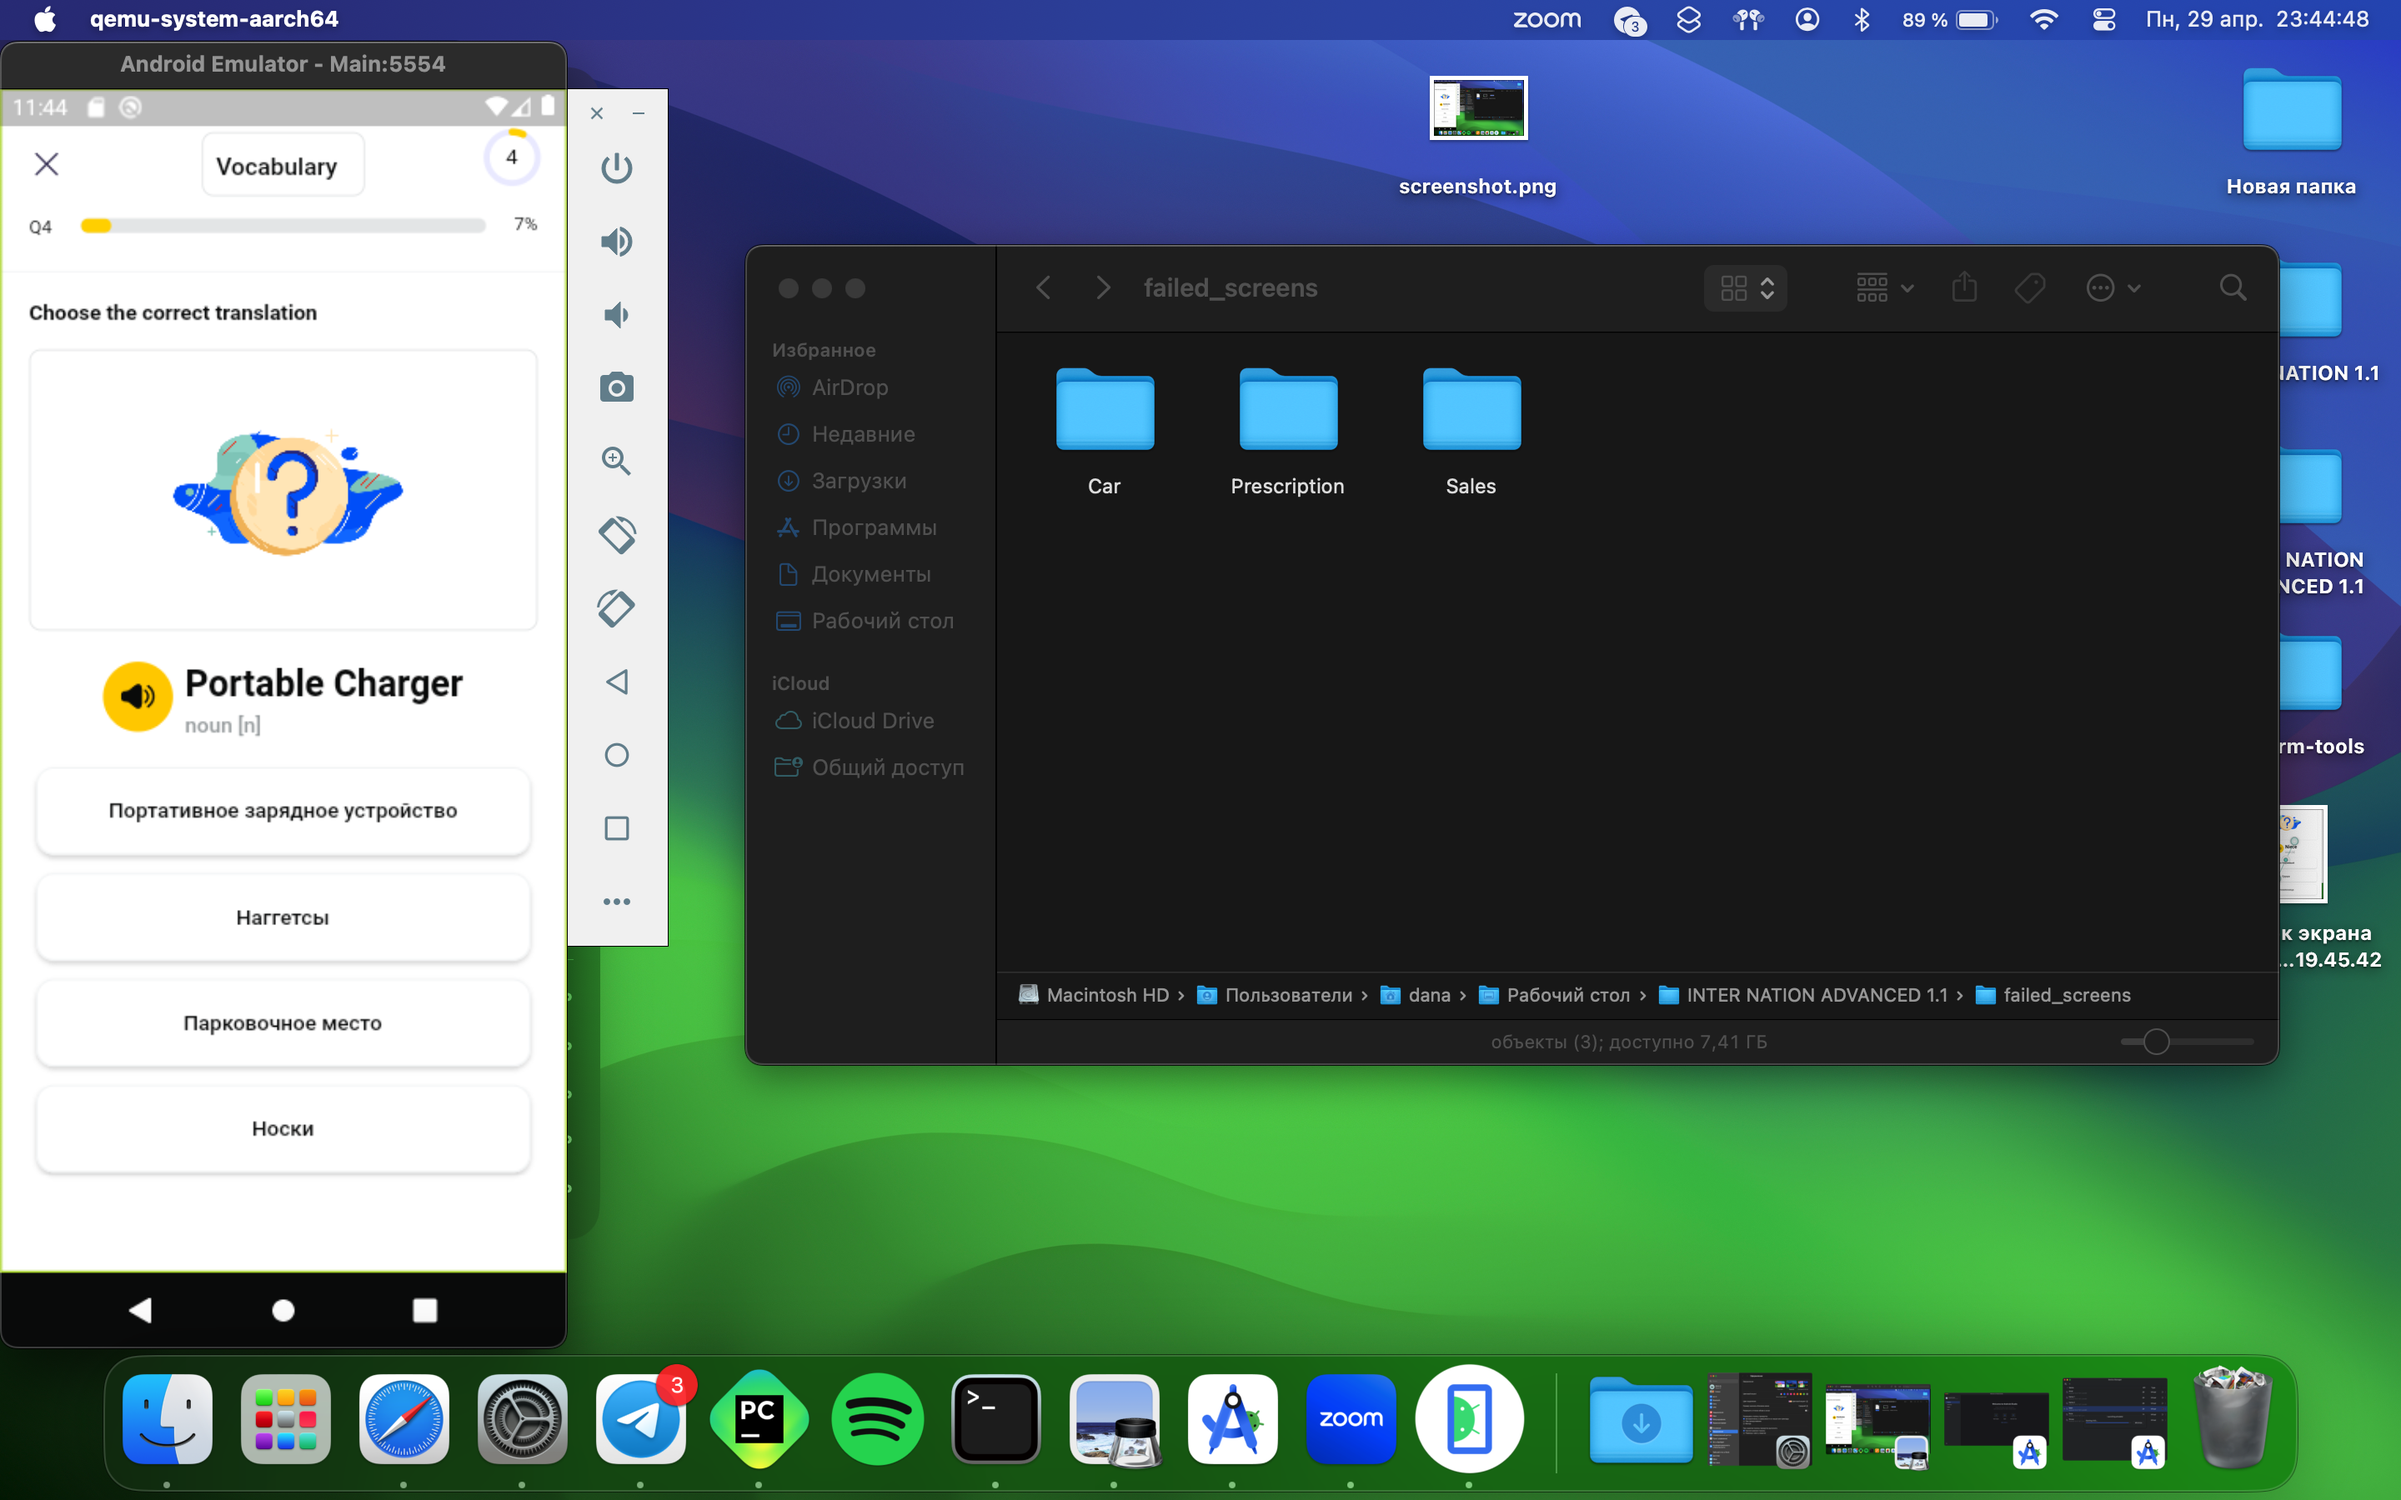
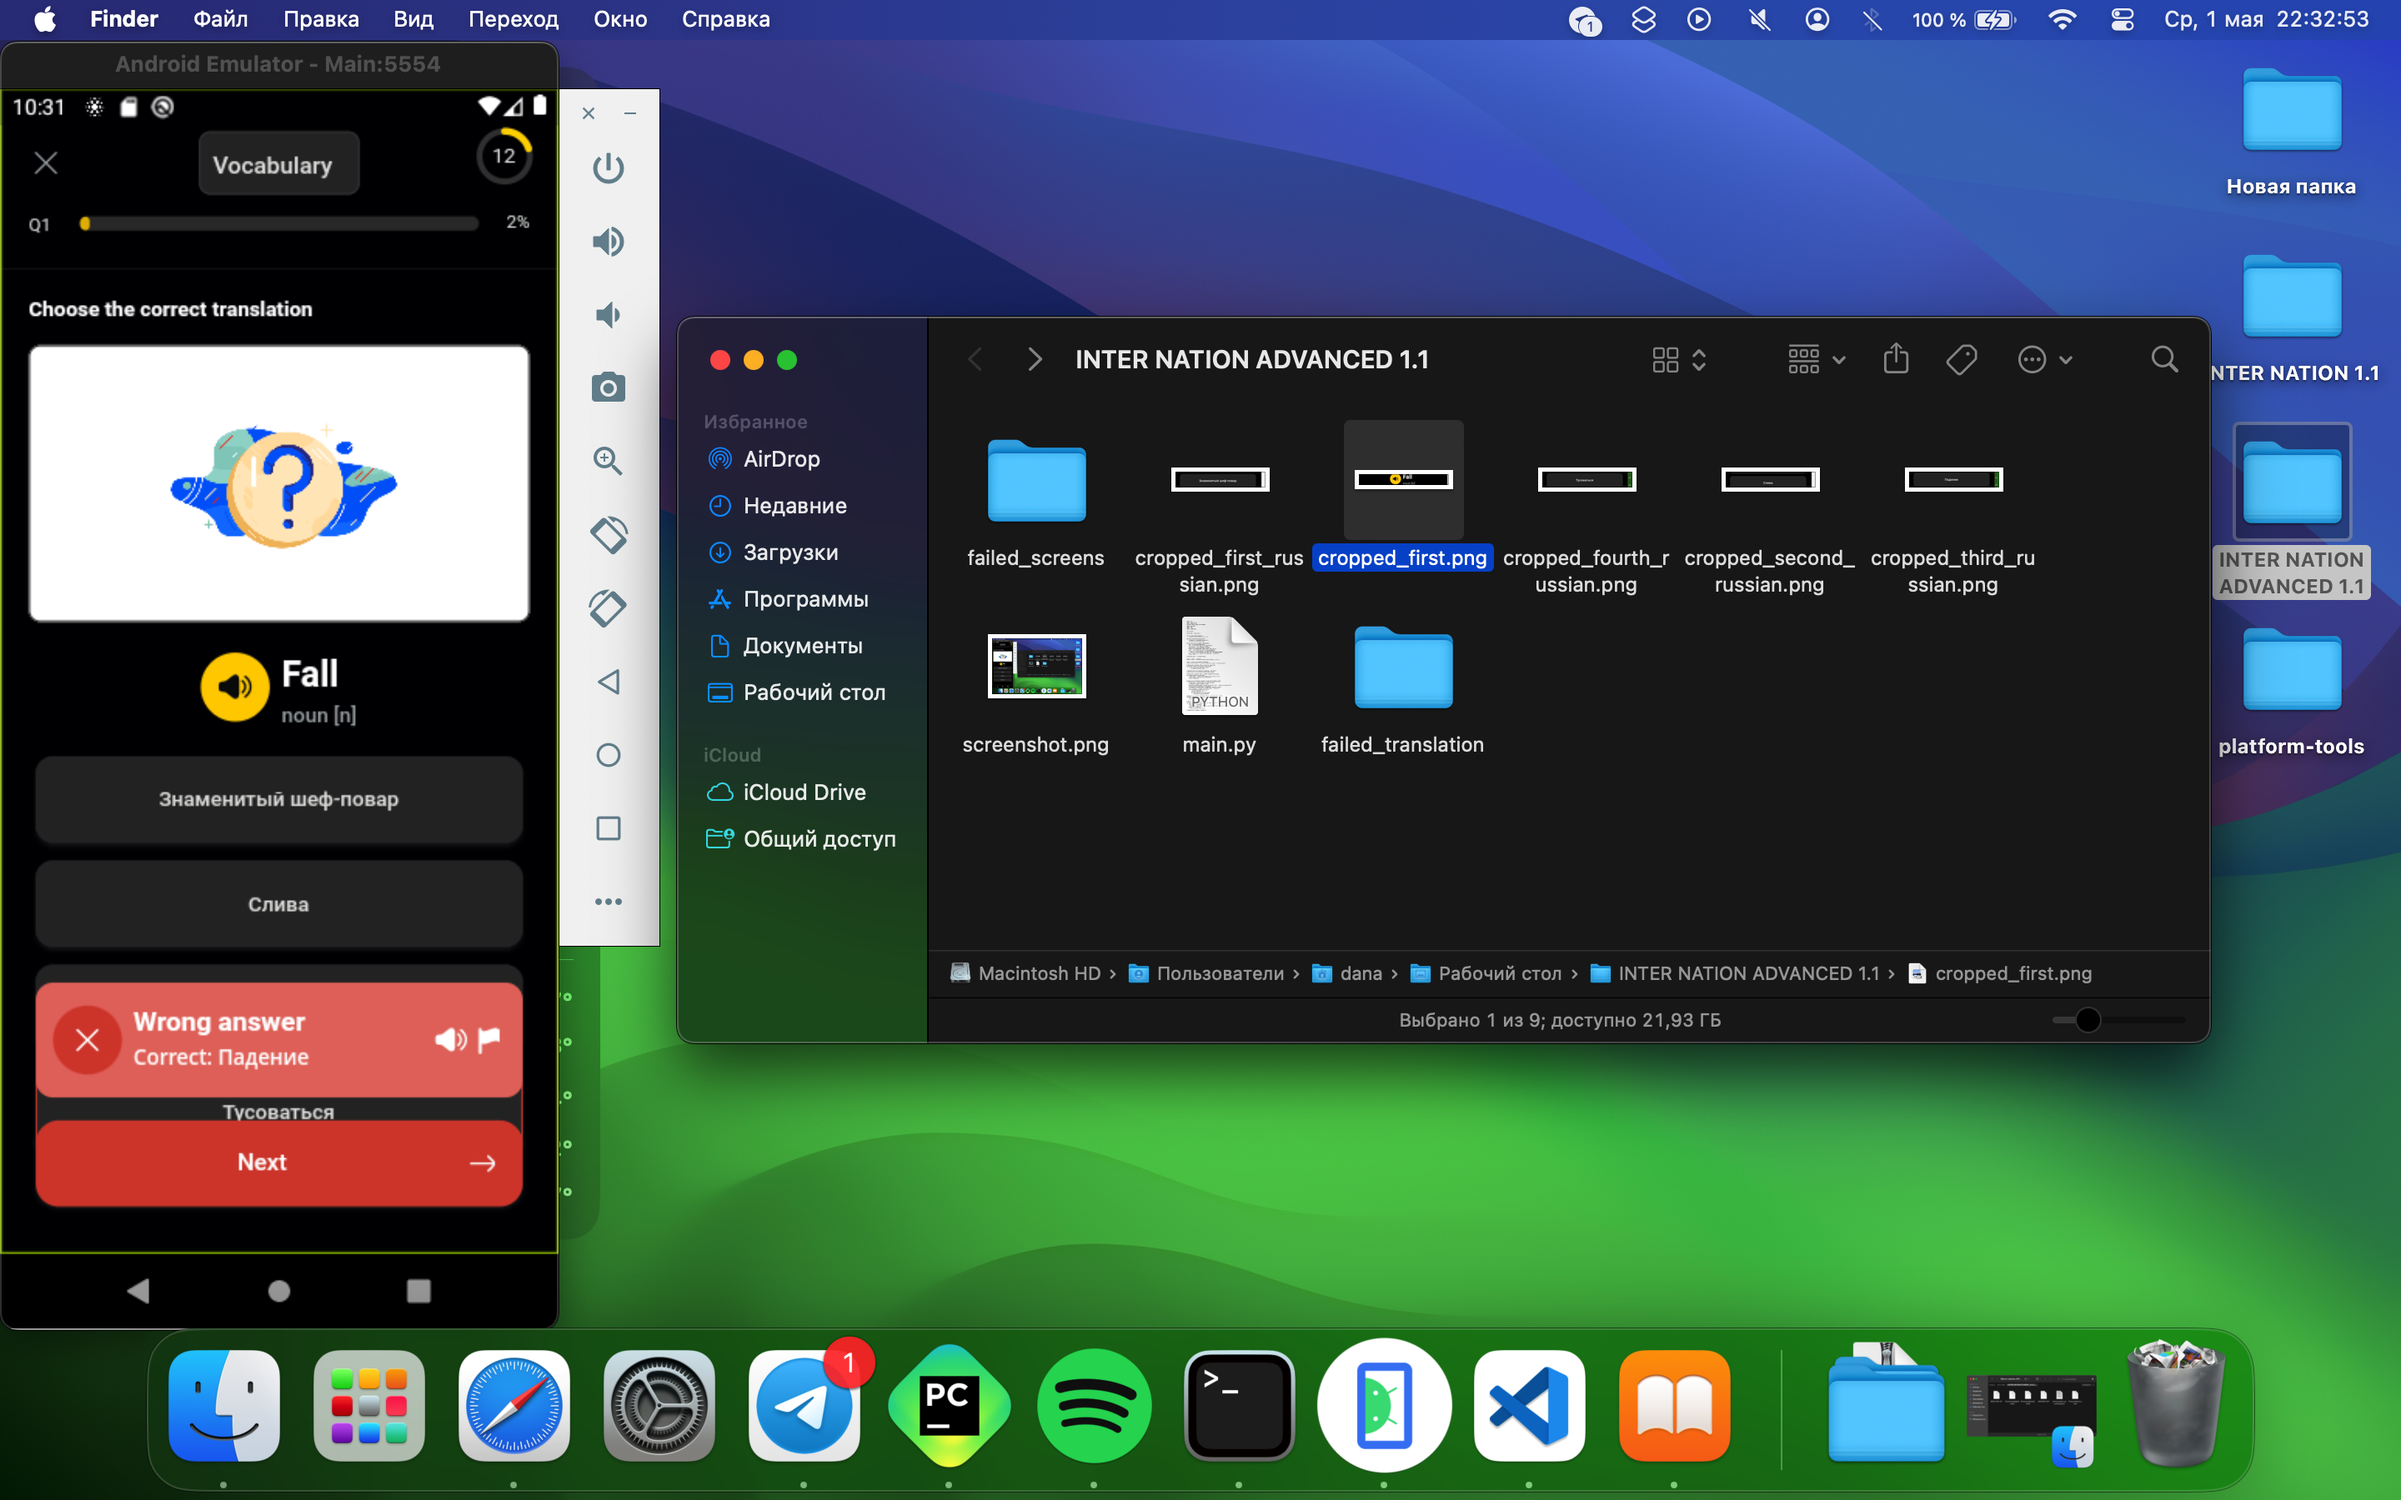
yes

diff --git a/main.py b/main.py
@@ -1,19 +1,36 @@
 import cv2
 import pytesseract
+import numpy as np
 from PIL import Image as PILImage
 import pyautogui
 import os
 import time
+import subprocess
 
 time.sleep(1)
+
+start_time = time.time()
+
+def run_adb_command(command):
+    subprocess.run(command, shell=True)
 
 def take_screenshot(output_path):
     screenshot = pyautogui.screenshot()
     screenshot.save(output_path)
 
+def process_first_screenshot(image_path):
+    img = cv2.imread(image_path)
+    hsv = cv2.cvtColor(img, cv2.COLOR_BGR2HSV)
+    lower_white = np.array([0, 0, 200])
+    upper_white = np.array([180, 30, 255])
+    mask = cv2.inRange(hsv, lower_white, upper_white)
+    result = cv2.bitwise_and(img, img, mask=mask)
+    gray = cv2.cvtColor(result, cv2.COLOR_BGR2GRAY)
+    _, binary = cv2.threshold(gray, 240, 255, cv2.THRESH_BINARY)
+    text = pytesseract.image_to_string(binary, lang='eng')
+    return text
 
 screenshot_path = 'screenshot.png'
-take_screenshot(screenshot_path)
 
 # Путь к папке с проектом
 project_folder = os.path.dirname(os.path.abspath(__file__))
@@ -64,12 +81,14 @@ def crop_image(input_path, output_path, width, height, x_offset, y_offset):
 
 # Параметры для обрезки скриншотов
 screenshots = [
-    {"input_path": "screenshot.png", "output_path": "cropped_first.png", "width": 670, "height": 50, "x_offset": 10, "y_offset": 790},
+    {"input_path": "screenshot.png", "output_path": "cropped_first.png", "width": 670, "height": 80, "x_offset": 10, "y_offset":780},
     {"input_path": "screenshot.png", "output_path": "cropped_first_russian.png", "width": 690, "height": 120, "x_offset": 10, "y_offset": 890},
     {"input_path": "screenshot.png", "output_path": "cropped_second_russian.png", "width": 690, "height": 120, "x_offset": 10, "y_offset": 1000},
     {"input_path": "screenshot.png", "output_path": "cropped_third_russian.png", "width": 690, "height": 120, "x_offset": 10, "y_offset": 1150},
     {"input_path": "screenshot.png", "output_path": "cropped_fourth_russian.png", "width": 690, "height": 120, "x_offset": 10, "y_offset": 1270}
 ]
+
+take_screenshot("screenshot.png")
 
 # Список для хранения распознанных текстов на русском
 russian_texts = []
@@ -78,7 +97,9 @@ russian_texts = []
 crop_image(screenshots[0]["input_path"], screenshots[0]["output_path"], screenshots[0]["width"], screenshots[0]["height"], screenshots[0]["x_offset"], screenshots[0]["y_offset"])
 img = cv2.imread(screenshots[0]["output_path"])
 img = cv2.cvtColor(img, cv2.COLOR_BGR2RGB)
-text_eng = pytesseract.image_to_string(img, lang='eng').strip().replace("® ", "")
+
+# Обрабатываем первый скриншот на английском языке
+text_eng = process_first_screenshot(screenshots[0]["output_path"])
 
 # Добавляем текст с первого скриншота (на английском) в переменную и выводим его
 print("Текст со скриншота на английском:")
@@ -98,12 +119,58 @@ print(russian_texts)
 
 # Словарь английских слов и их переводов на русский
 dictionary = {
-    "Handsome": "Статный",
     "SCleaner": "Уборщик",
     "Hat": "Шляпа",
+    "Melon": "Дыня",
+    "(>) Checkout": "Выезд",
+    "«@» Grapes": "Виноград",
+    "«Fridge": "Холодильник",
+    "«@) Table": "Стол",
 }
 
 # Проверяем, есть ли перевод английского текста в словаре
 if text_eng not in dictionary:
     # Если перевода нет, сохраняем скриншот и текстовый файл
     save_failed_screenshot(text_eng, screenshots[0]["input_path"], text_eng)
+
+def find_translation(word, russian_words):
+    if word in dictionary:
+        translation = dictionary[word]
+        if translation in russian_words:
+            index = russian_words.index(translation)
+            return index
+    return None
+
+translation_index = find_translation(text_eng, russian_texts)
+
+if translation_index == 0:
+    # Если translation_index равен 0, нажимаем на координаты 100 100
+    run_adb_command('adb -s emulator-5554 shell input tap 150 425 ')
+    print(1)
+    run_adb_command('adb -s emulator-5554 shell input tap 150 650 ') #дальше
+elif translation_index == 1:
+    # Если translation_index равен 1, нажимаем на координаты 230 250
+    run_adb_command('adb -s emulator-5554 shell input tap 150 500 ')
+    print(2)
+    run_adb_command('adb -s emulator-5554 shell input tap 150 650 ') #дальше
+elif translation_index == 2:
+    # Если translation_index равен 2, нажимаем на координаты 421 242
+    run_adb_command('adb -s emulator-5554 shell input tap 150 570 ')
+    print(3)
+    run_adb_command('adb -s emulator-5554 shell input tap 150 650 ') #дальше
+elif translation_index == 3:
+    # Если translation_index равен 3, нажимаем на координаты 412 241
+    run_adb_command('adb -s emulator-5554 shell input tap 150 630 ')
+    print(4)
+    run_adb_command('adb -s emulator-5554 shell input tap 150 650 ') #дальше
+else:
+    run_adb_command('adb -s emulator-5554 shell input tap 150 630 ')
+    print(5)
+    time.sleep(0.2)
+    run_adb_command('adb -s emulator-5554 shell input tap 150 650 ') #дальше
+
+
+end_time = time.time()
+
+execution_time = end_time - start_time
+print(f"Время выполнения скрипта: {execution_time} секунд")
